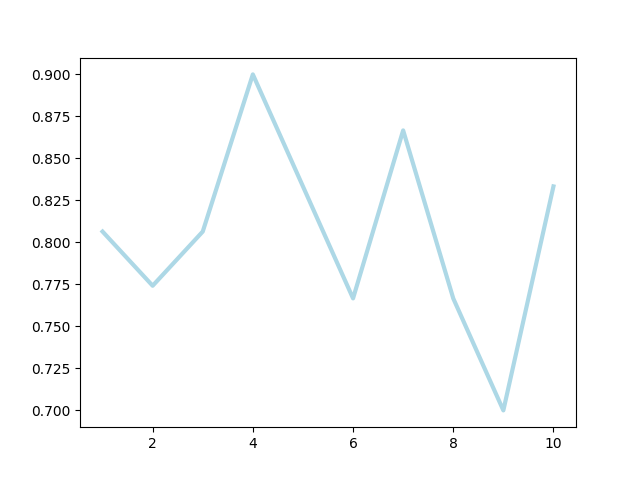
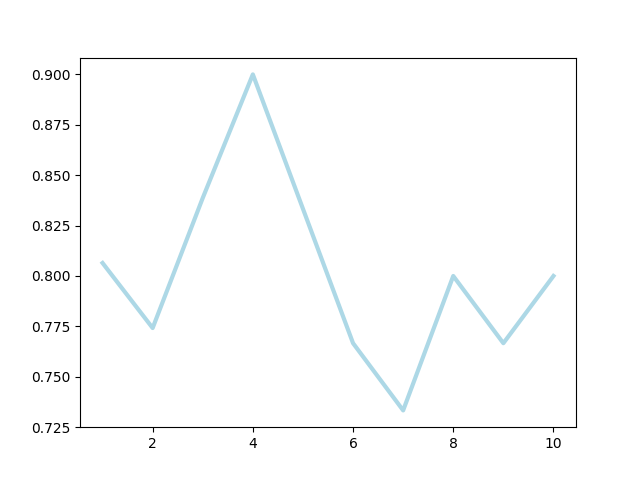
Add changes

diff --git a/report.md b/report.md
@@ -1,0 +1,2 @@
+## Scores vizualization
+![](https://asset.cml.dev/694083396bb29d2ba6349c78fc8284a26aa704ec?cml=png)
